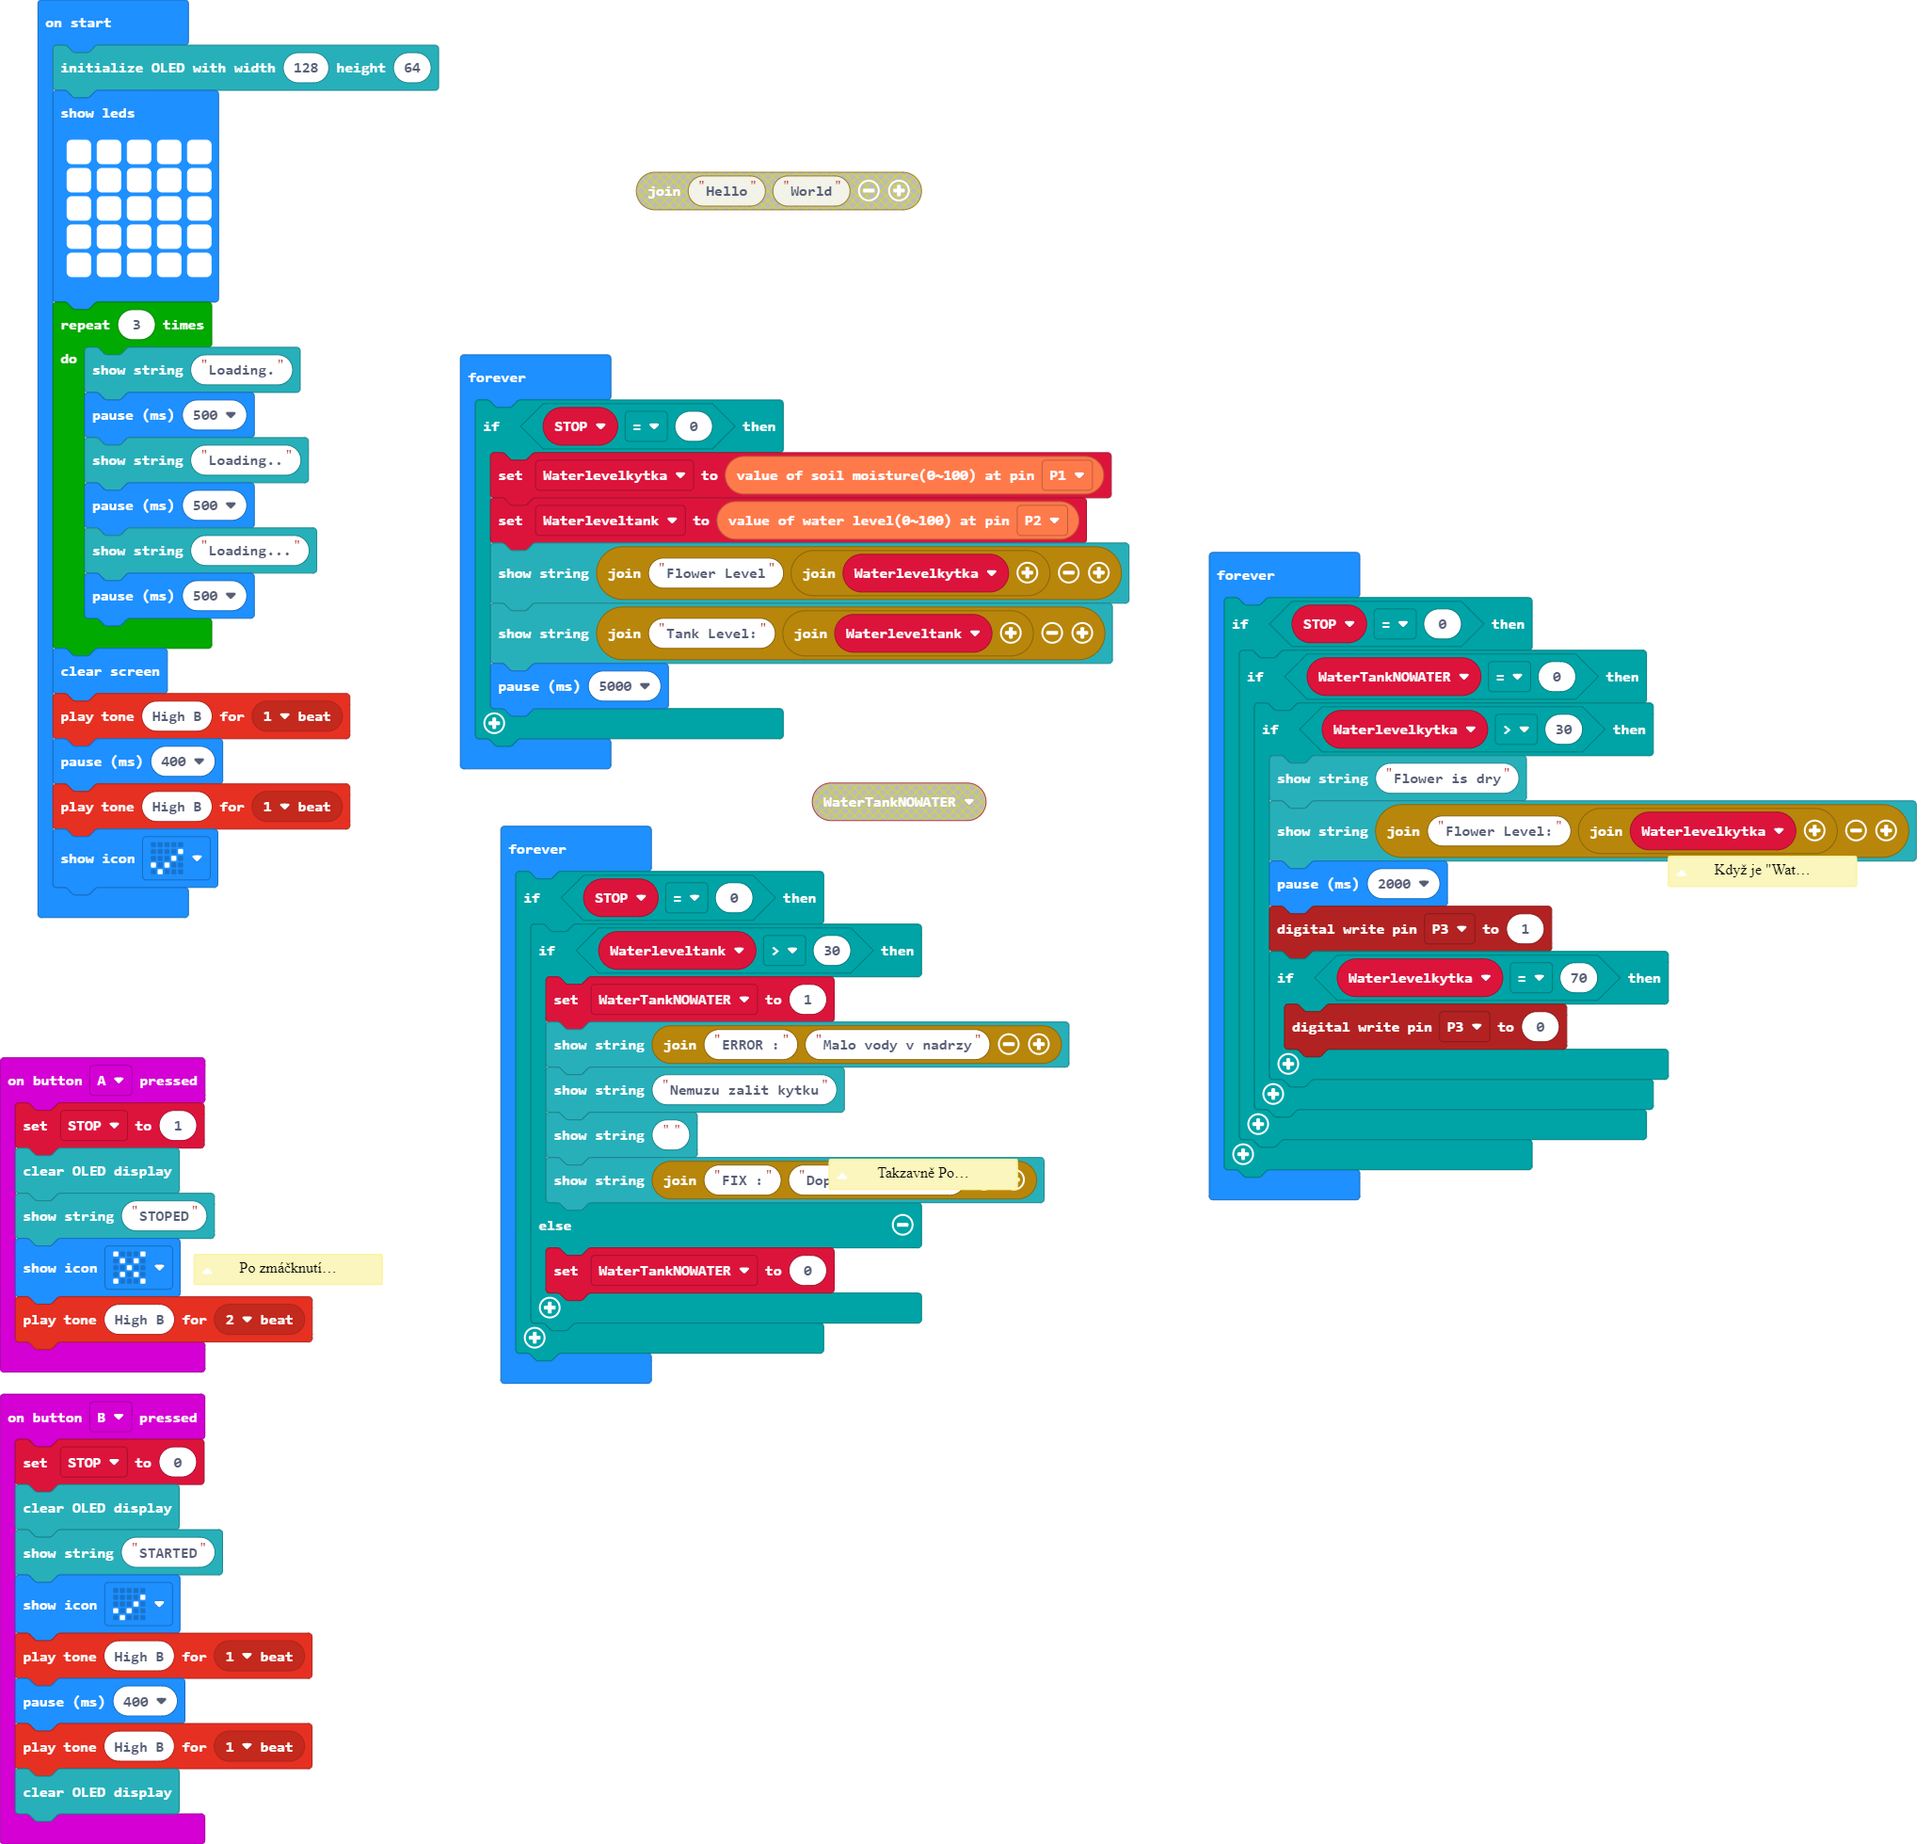
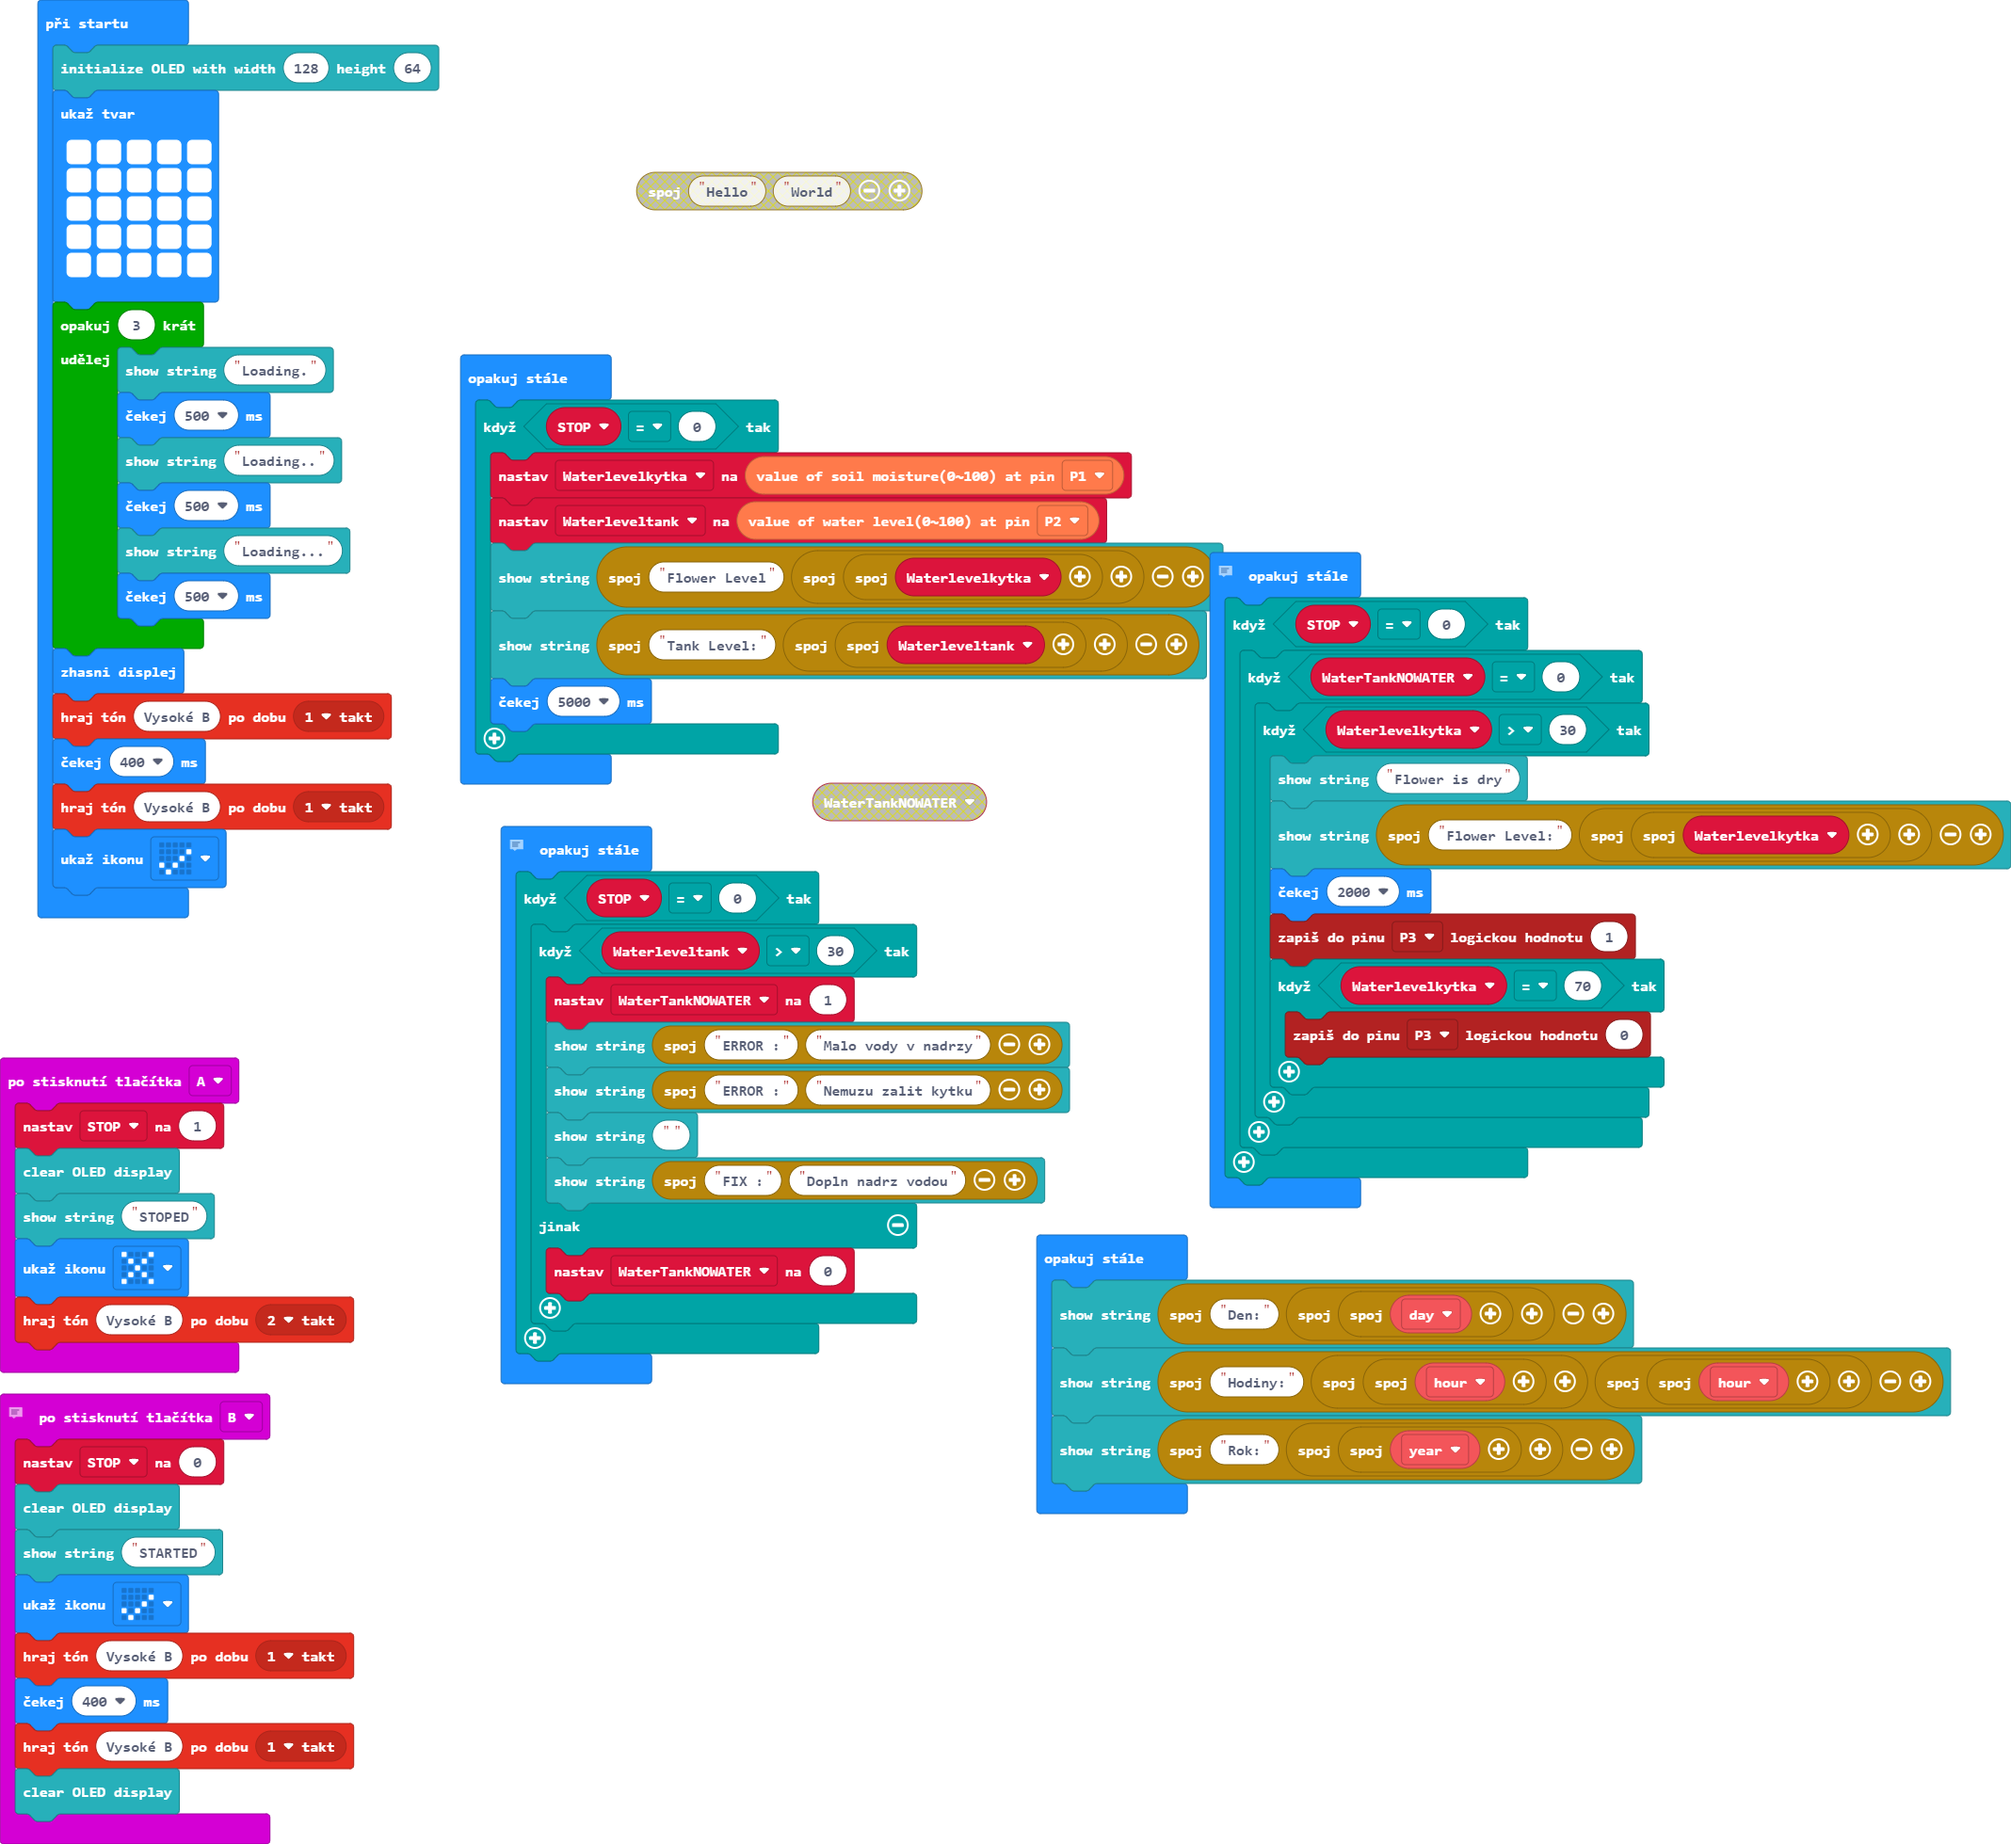
update času

Changed region(s): [[0.0, 0.0, 1.0, 0.8407], [0.0, 0.5605, 0.2182, 1.0], [0.3117, 0.0934, 0.4988, 0.1246]]

diff --git a/main.ts b/main.ts
@@ -5,11 +5,9 @@ input.onButtonPressed(Button.A, function () {
     basic.showIcon(IconNames.No)
     music.playTone(988, music.beat(BeatFraction.Double))
 })
-/**
- * Po zmáčknutí A+B
- * 
- * Se všechno zastaví
- */
+// Po zmáčknutí A+B
+// 
+// Se všechno zastaví
 input.onButtonPressed(Button.B, function () {
     STOP = 0
     OLED.clear()
@@ -54,11 +52,9 @@ basic.forever(function () {
         basic.pause(5000)
     }
 })
-/**
- * Když je "WaterTankNOWATER" "0" tak se spustí další command když je "Waterlevelkytka" ">30"
- * 
- * tak se zobrazí text flower is dry a čerpadlo pustí vodu dokud vlhkost pudy nebude 70%
- */
+// Když je "WaterTankNOWATER" "0" tak se spustí další command když je "Waterlevelkytka" ">30"
+// 
+// tak se zobrazí text flower is dry a čerpadlo pustí vodu dokud vlhkost pudy nebude 70%
 basic.forever(function () {
     if (STOP == 0) {
         if (WaterTankNOWATER == 0) {
@@ -74,29 +70,34 @@ basic.forever(function () {
         }
     }
 })
-/**
- * Takzavně 
- * 
- * Pokud je v nádrží málo vody konkrétně méně než 30% tak nastaví "WaterTankNOWATER"
- * 
- * na "1" tím se zakáže používaní čerpadla
- * 
- * a napíše ERROR že nemá vodu
- * 
- * Jinak nastaví "WaterTankNOWATER"
- * 
- * "0" Tím pádem se muže používat čerpadlo
- */
+// Takzavně
+// 
+// Pokud je v nádrží málo vody konkrétně méně než 30% tak nastaví "WaterTankNOWATER"
+// 
+// na "1" tím se zakáže používaní čerpadla
+// 
+// a napíše ERROR že nemá vodu
+// 
+// Jinak nastaví "WaterTankNOWATER"
+// 
+// "0" Tím pádem se muže používat čerpadlo
+// 
+// když
 basic.forever(function () {
     if (STOP == 0) {
         if (Waterleveltank > 30) {
             WaterTankNOWATER = 1
             OLED.writeStringNewLine("ERROR :" + "Malo vody v nadrzy")
-            OLED.writeStringNewLine("Nemuzu zalit kytku")
+            OLED.writeStringNewLine("ERROR :" + "Nemuzu zalit kytku")
             OLED.writeStringNewLine("")
             OLED.writeStringNewLine("FIX :" + "Dopln nadrz vodou")
         } else {
             WaterTankNOWATER = 0
         }
     }
+})
+basic.forever(function () {
+    OLED.writeStringNewLine("Den:" + ("" + RTC_DS1307.getTime(RTC_DS1307.TimeType.DAY)))
+    OLED.writeStringNewLine("Hodiny:" + ("" + RTC_DS1307.getTime(RTC_DS1307.TimeType.HOUR)) + ("" + RTC_DS1307.getTime(RTC_DS1307.TimeType.HOUR)))
+    OLED.writeStringNewLine("Rok:" + ("" + RTC_DS1307.getTime(RTC_DS1307.TimeType.YEAR)))
 })

diff --git a/main.py b/main.py
@@ -1,6 +1,32 @@
+def on_button_pressed_a():
+    global STOP
+    STOP = 1
+    OLED.clear()
+    OLED.write_string_new_line("STOPED")
+    basic.show_icon(IconNames.NO)
+    music.play_tone(988, music.beat(BeatFraction.DOUBLE))
+input.on_button_pressed(Button.A, on_button_pressed_a)
+
+# Po zmáčknutí A+B
+# 
+# Se všechno zastaví
+
+def on_button_pressed_b():
+    global STOP
+    STOP = 0
+    OLED.clear()
+    OLED.write_string_new_line("STARTED")
+    basic.show_icon(IconNames.YES)
+    music.play_tone(988, music.beat(BeatFraction.WHOLE))
+    basic.pause(400)
+    music.play_tone(988, music.beat(BeatFraction.WHOLE))
+    OLED.clear()
+input.on_button_pressed(Button.B, on_button_pressed_b)
+
 WaterTankNOWATER = 0
 Waterleveltank = 0
 Waterlevelkytka = 0
+STOP = 0
 OLED.init(128, 64)
 basic.show_leds("""
     # # # # #
@@ -20,59 +46,63 @@ basic.clear_screen()
 music.play_tone(988, music.beat(BeatFraction.WHOLE))
 basic.pause(400)
 music.play_tone(988, music.beat(BeatFraction.WHOLE))
+basic.show_icon(IconNames.YES)
 
 def on_forever():
     global Waterlevelkytka, Waterleveltank
-    Waterlevelkytka = Environment.read_soil_humidity(AnalogPin.P1)
-    Waterleveltank = Environment.read_water_level(AnalogPin.P2)
-    OLED.write_string_new_line("Flower Level" + ("" + str(Waterlevelkytka)))
-    OLED.write_string_new_line("Tank Level:" + ("" + str(Waterleveltank)))
-    basic.pause(5000)
+    if STOP == 0:
+        Waterlevelkytka = Environment.read_soil_humidity(AnalogPin.P1)
+        Waterleveltank = Environment.read_water_level(AnalogPin.P2)
+        OLED.write_string_new_line("Flower Level" + ("" + str(Waterlevelkytka)))
+        OLED.write_string_new_line("Tank Level:" + ("" + str(Waterleveltank)))
+        basic.pause(5000)
 basic.forever(on_forever)
 
-"""
-
-Když je "WaterTankNOWATER" "0" tak se spustí další command když je "Waterlevelkytka" ">30"
-
-tak se zobrazí text flower is dry a čerpadlo pustí vodu dokud vlhkost pudy nebude 70%
-
-"""
+# Když je "WaterTankNOWATER" "0" tak se spustí další command když je "Waterlevelkytka" ">30"
+# 
+# tak se zobrazí text flower is dry a čerpadlo pustí vodu dokud vlhkost pudy nebude 70%
 
 def on_forever2():
-    if WaterTankNOWATER == 0:
-        if Waterlevelkytka > 30:
-            OLED.write_string_new_line("Flower is dry")
-            OLED.write_string_new_line("Flower Level:" + ("" + str(Waterlevelkytka)))
-            basic.pause(2000)
-            pins.digital_write_pin(DigitalPin.P3, 1)
-            if Waterlevelkytka == 70:
-                pins.digital_write_pin(DigitalPin.P3, 0)
+    if STOP == 0:
+        if WaterTankNOWATER == 0:
+            if Waterlevelkytka > 30:
+                OLED.write_string_new_line("Flower is dry")
+                OLED.write_string_new_line("Flower Level:" + ("" + str(Waterlevelkytka)))
+                basic.pause(2000)
+                pins.digital_write_pin(DigitalPin.P3, 1)
+                if Waterlevelkytka == 70:
+                    pins.digital_write_pin(DigitalPin.P3, 0)
 basic.forever(on_forever2)
 
-"""
-
-Takzavně 
-
-Pokud je v nádrží málo vody konkrétně méně než 30% tak nastaví "WaterTankNOWATER"
-
-na "1" tím se zakáže používaní čerpadla
-
-a napíše ERROR že nemá vodu
-
-Jinak nastaví "WaterTankNOWATER"
-
-"0" Tím pádem se muže používat čerpadlo
-
-"""
+# Takzavně
+# 
+# Pokud je v nádrží málo vody konkrétně méně než 30% tak nastaví "WaterTankNOWATER"
+# 
+# na "1" tím se zakáže používaní čerpadla
+# 
+# a napíše ERROR že nemá vodu
+# 
+# Jinak nastaví "WaterTankNOWATER"
+# 
+# "0" Tím pádem se muže používat čerpadlo
+# 
+# když
 
 def on_forever3():
     global WaterTankNOWATER
-    if Waterleveltank > 30:
-        WaterTankNOWATER = 1
-        OLED.write_string_new_line("ERROR :" + "Malo vody v nadrzy")
-        OLED.write_string_new_line("Nemuzu zalit kytku")
-        OLED.write_string_new_line("")
-        OLED.write_string_new_line("FIX :" + "Dopln nadrz vodou")
-    else:
-        WaterTankNOWATER = 0
+    if STOP == 0:
+        if Waterleveltank > 30:
+            WaterTankNOWATER = 1
+            OLED.write_string_new_line("ERROR :" + "Malo vody v nadrzy")
+            OLED.write_string_new_line("ERROR :" + "Nemuzu zalit kytku")
+            OLED.write_string_new_line("")
+            OLED.write_string_new_line("FIX :" + "Dopln nadrz vodou")
+        else:
+            WaterTankNOWATER = 0
 basic.forever(on_forever3)
+
+def on_forever4():
+    OLED.write_string_new_line("Den:" + ("" + str(RTC_DS1307.get_time(RTC_DS1307.TimeType.DAY))))
+    OLED.write_string_new_line("Hodiny:" + ("" + str(RTC_DS1307.get_time(RTC_DS1307.TimeType.HOUR))) + ("" + str(RTC_DS1307.get_time(RTC_DS1307.TimeType.HOUR))))
+    OLED.write_string_new_line("Rok:" + ("" + str(RTC_DS1307.get_time(RTC_DS1307.TimeType.YEAR))))
+basic.forever(on_forever4)
